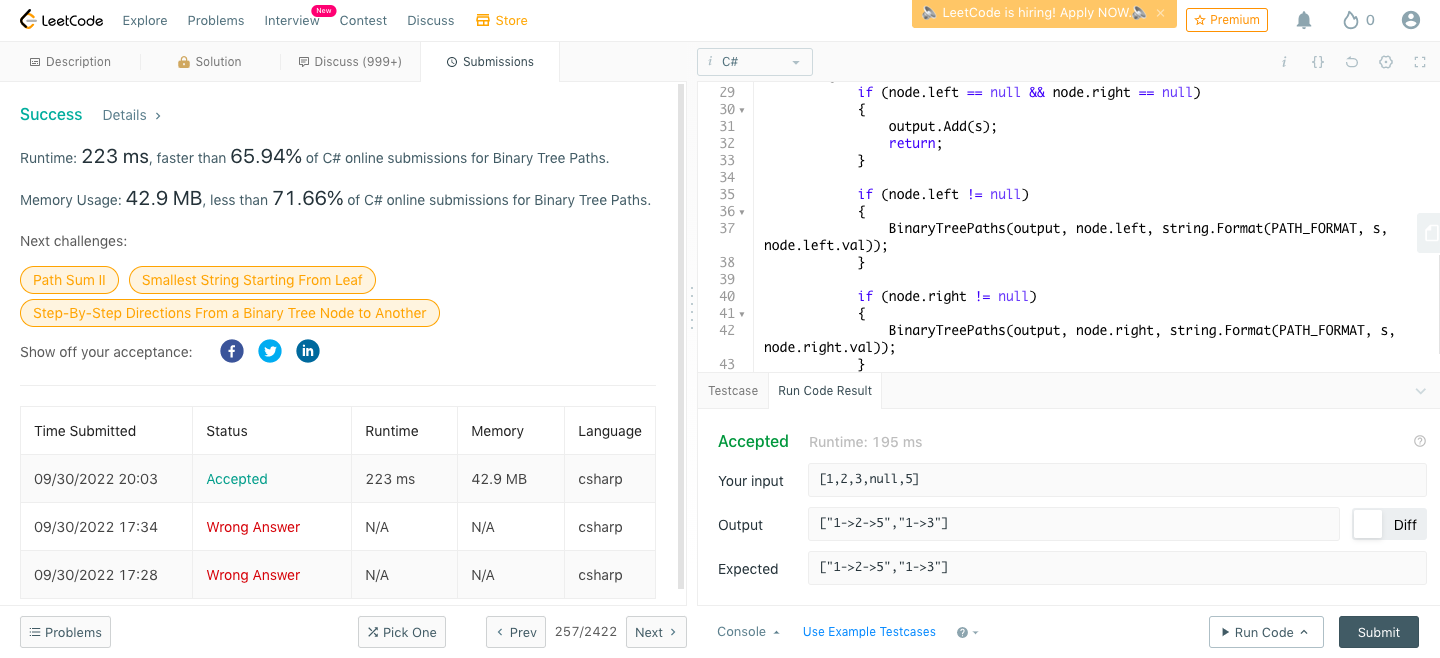
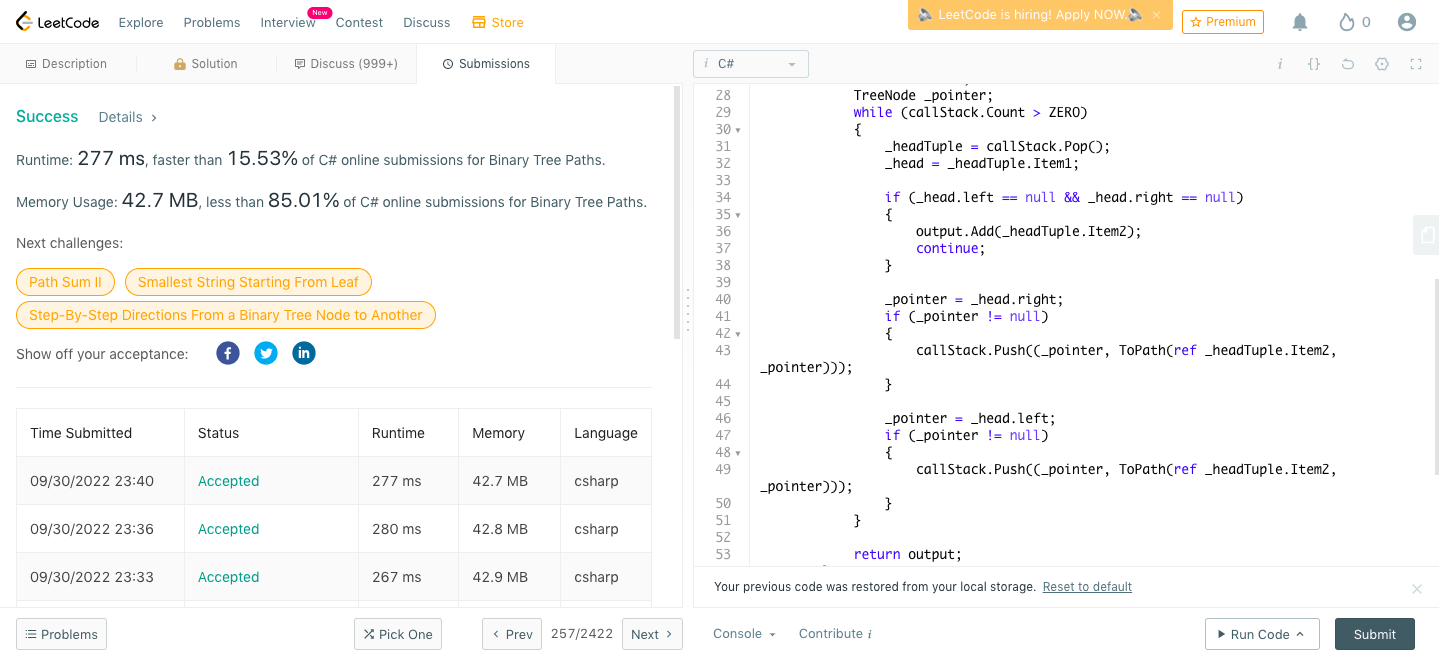
[chore] Binary Tree Paths with no recursive version.

diff --git a/Assets/Solutions/257. Binary Tree Paths/BinaryTreePaths.cs b/Assets/Solutions/257. Binary Tree Paths/BinaryTreePaths.cs
@@ -1,38 +1,58 @@
 using System.Collections.Generic;
+using System.Text;
 
 namespace BinaryTreePaths
 {
     public class Solution
     {
-        private const string PATH_FORMAT = "{0}->{1}";
+        private const int ZERO = 0;
+        private readonly StringBuilder stringBuilder = new StringBuilder();
+        private const string PATH_TO = "->";
 
         public IList<string> BinaryTreePaths(TreeNode root)
         {
             List<string> output = new List<string>();
+            Stack<(TreeNode, string)> callStack = new Stack<(TreeNode, string)>();
+            callStack.Push((root, root.val.ToString()));
 
-            BinaryTreePaths(output, root, root.val.ToString());
+            (TreeNode, string) _headTuple;
+            TreeNode _head;
+            TreeNode _pointer;
+            while (callStack.Count > ZERO)
+            {
+                _headTuple = callStack.Pop();
+                _head = _headTuple.Item1;
+
+                if (_head.left == null && _head.right == null)
+                {
+                    output.Add(_headTuple.Item2);
+                    continue;
+                }
+
+                _pointer = _head.right;
+                if (_pointer != null)
+                {
+                    callStack.Push((_pointer, ToPath(ref _headTuple.Item2, _pointer)));
+                }
+
+                _pointer = _head.left;
+                if (_pointer != null)
+                {
+                    callStack.Push((_pointer, ToPath(ref _headTuple.Item2, _pointer)));
+                }
+            }
 
             return output;
         }
 
-        private void BinaryTreePaths(List<string> output, TreeNode node, string s)
+        private string ToPath(ref string originalPath, TreeNode node)
         {
-            // A leaf is a node with no children
-            if (node.left == null && node.right == null)
-            {
-                output.Add(s);
-                return;
-            }
+            stringBuilder.Length = 0;
+            stringBuilder.Append(originalPath);
+            stringBuilder.Append(PATH_TO);
+            stringBuilder.Append(node.val);
 
-            if (node.left != null)
-            {
-                BinaryTreePaths(output, node.left, string.Format(PATH_FORMAT, s, node.left.val));
-            }
-
-            if (node.right != null)
-            {
-                BinaryTreePaths(output, node.right, string.Format(PATH_FORMAT, s, node.right.val));
-            }
+            return stringBuilder.ToString();
         }
     }
 }
